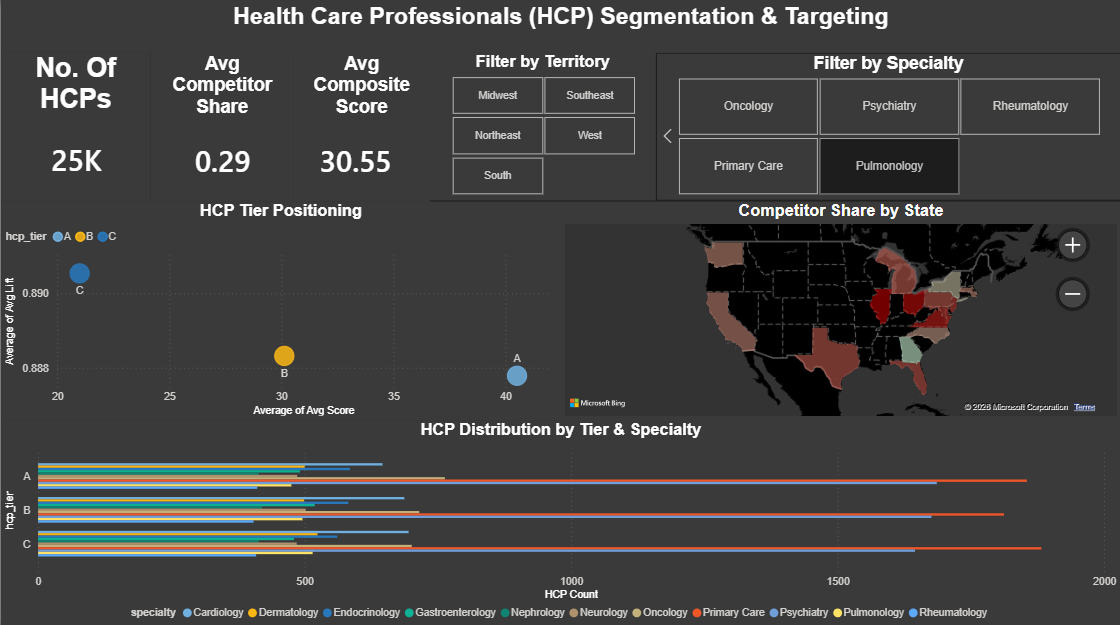
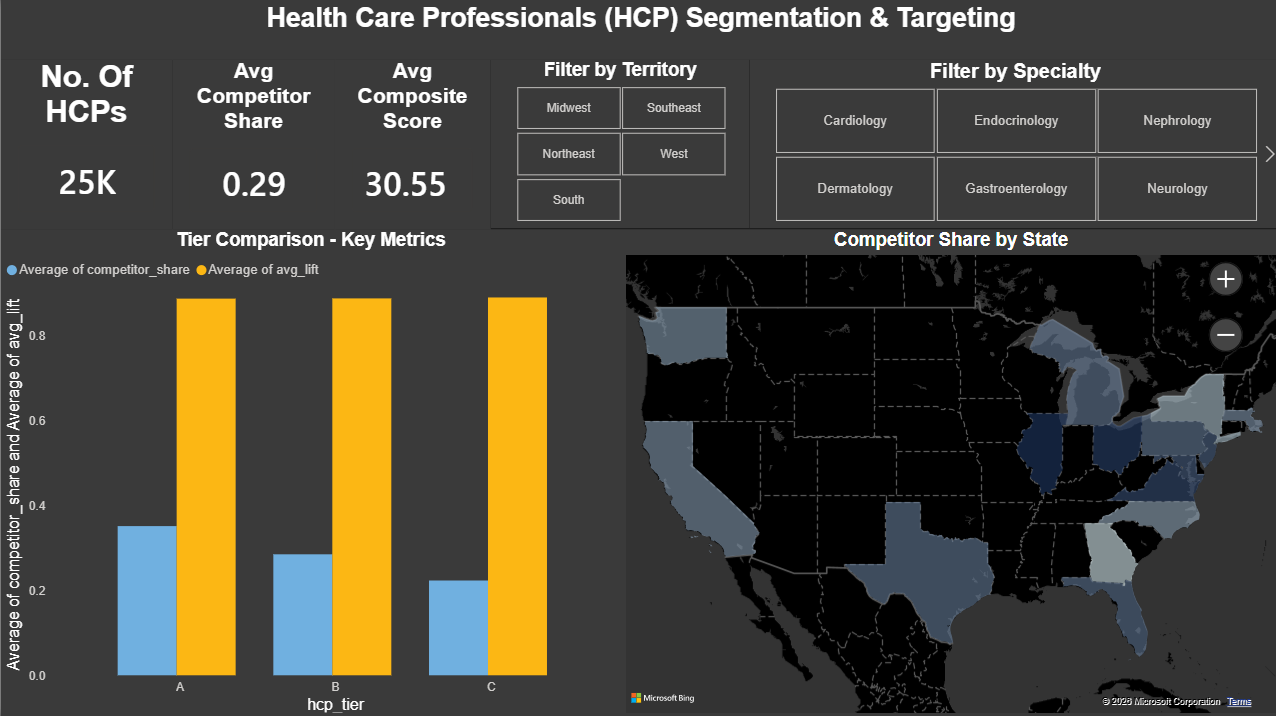
Project

diff --git a/README.md b/README.md
@@ -19,18 +19,18 @@ A pharmaceutical company runs a multi-channel marketing campaign targeting ~25,0
 
 | Layer | Technology |
 |---|---|
-| Data Enrichment | Python (Pandas, NumPy) |
+| Data Pipeline | Python (Pandas, NumPy) |
 | Database | MySQL 8.0 |
 | Analytics | SQL (CTEs, Window Functions, Aggregations) |
-| Visualisation | Power BI Desktop |
+| Visualisation | Power BI Desktop + DAX |
 | Version Control | Git / GitHub |
 
 ---
 
 ## Dataset
 
-**Source:** Synthetic HCP Omnichannel Marketing Dataset (Kaggle - danielmeiser)  
-**Size:** 150,000 rows × 42 columns  
+**Source:** Synthetic HCP Omnichannel Marketing Dataset (Kaggle - danielmeiser)
+**Size:** 150,000 rows × 42 columns
 **Structure:** Panel data - one row per HCP per week (24,935 unique doctors × 26 weeks)
 
 **Key column groups:**
@@ -54,10 +54,10 @@ Pharma-Commercial-Analytics/
 │   ├── 02_Rep_Performance.png
 │   └── 03_Marketing_Mix_And_Territory_ROI.png
 │
-├── 01_create_table.sql          # MySQL table schema
-├── 02_create_views.sql          # 5 analytical SQL views
-├── addSQL.py                    # Loads CSV into MySQL
-├── Pharma_Commercial_Analytics.pbix   # Power BI dashboard file
+├── 01_create_table.sql               # MySQL table schema
+├── 02_create_views.sql               # 5 analytical SQL views
+├── addSQL.py                         # Loads CSV into MySQL
+├── Pharma_Commercial_Analytics.pbix  # Power BI dashboard file
 └── README.md
 ```
 
@@ -65,98 +65,105 @@ Pharma-Commercial-Analytics/
 
 ## SQL Analytical Views
 
-Five views built on top of `hcp_marketing` table:
+Five views built on top of the `hcp_marketing` table:
 
 ### 1. `vw_hcp_tiering` - HCP Segmentation
 Tiers all 24,935 doctors into A/B/C using a composite score:
 
 ```
 Composite Score = (baseline_rx_monthly × 0.3)
-                + (rep_access_score × 100 × 0.3)
-                + (competitor_share × 100 × 0.2)
-                + (panel_size × 0.01 × 0.2)
+                + (rep_access_score   × 100 × 0.3)
+                + (competitor_share   × 100 × 0.2)
+                + (panel_size         × 0.01 × 0.2)
 ```
 
 Uses `NTILE(3)` window function to split into equal thirds. Tier A = highest composite score = highest priority target.
 
 ### 2. `vw_quota_attainment` - Rep Performance
-Computes `AVG(rx_lift_weekly) / AVG(weekly_quota_rx_lift) × 100` per rep per territory. Labels reps as On Track (≥100%), At Risk (80–99%), or Underperforming (<80%) using `CASE WHEN`.
+Computes `AVG(rx_lift_weekly) / AVG(weekly_quota_rx_lift) × 100` per rep per territory. Labels reps as **On Track** (≥100%), **At Risk** (80–99%), or **Underperforming** (<80%) using `CASE WHEN`.
 
 ### 3. `vw_channel_roi` - Marketing Mix ROI
-Computes `SUM(rx_lift_weekly) / SUM(cost_X)` for each of 6 marketing channels. Key finding: email generates 6.0 Rx lift per dollar vs 0.013 for rep visits — a 460x efficiency gap.
+Computes `SUM(rx_lift_weekly) / SUM(cost_X)` for each of 6 marketing channels.
+Key finding: email generates **6.0 Rx lift per dollar** vs **0.013 for rep visits** - a 460× efficiency gap.
 
 ### 4. `vw_priority_call_list` - Next Week Call Targets
-Filters the latest week's data for HCPs meeting all four criteria:
-- `rep_access_score > 0.6` (accessible)
-- `call_recency_days > 30` (not recently visited)
-- `response_flag = 1` (historically responded)
-- `competitor_share > 0.5` (competitor-dominated, high opportunity)
+Filters the latest week's snapshot for HCPs meeting all four criteria:
+- `rep_access_score > 0.6` - accessible
+- `call_recency_days > 30` - not recently visited
+- `response_flag = 1` - historically responded
+- `competitor_share > 0.5` - competitor-dominated, high opportunity
 
 ### 5. `vw_territory_ranking` - Territory Performance
-Ranks all 5 territories by total Rx lift generated using `RANK()` window function. Southeast ranks #1 with 36,111 total lift units.
+Ranks all 5 territories by total Rx lift generated using the `RANK()` window function. Southeast ranks #1 with 36,111 total lift units.
 
 ---
 
 ## Power BI Dashboard
 
 ### Page 1 - HCP Segmentation & Targeting
-- **Scatter plot** - 3 tier bubbles (A/B/C) by average composite score vs average Rx lift
-- **Filled map** - competitor share by US state (green → red gradient)
-- **Bar chart** - HCP count by tier and specialty
-- **KPI cards** - Total HCPs, Avg Competitor Share, Avg Composite Score
-- **Slicers** - Filter by territory and specialty
 
 ![Page 1](Dashboard_Screenshots/01_HCP_Segmentation.png)
 
+- **Clustered bar chart** - competitor share and avg Rx lift by HCP tier (A/B/C), showing Tier A carries the highest competitor penetration - the primary targeting rationale
+- **Filled map** - average competitor share by US state using a blue gradient; darker = stronger competitor presence = higher market opportunity
+- **KPI cards** - Total HCPs (25K), Avg Competitor Share (0.29), Avg Composite Score (30.55)
+- **Slicers** - Filter by territory and specialty; cross-filter all visuals simultaneously
+
+---
+
 ### Page 2 - Representatives' Performance & Call Planning
-- **Quota attainment table** - all 23 rep-territory rows with conditional formatting
-- **Priority call list table** - 23 high-opportunity HCPs with competitor share heat map
-- **Bar chart** - quota status (On Track / At Risk / Underperforming) by territory
-- **KPI cards** - Avg Attainment %, Reps On Track, Reps Underperforming
 
 ![Page 2](Dashboard_Screenshots/02_Rep_Performance.png)
 
+- **Column chart** - quota attainment % per rep, colour-coded green/amber/red (On Track / At Risk / Underperforming); all 19 reps visible in one view
+- **Priority call list table** - 23 high-opportunity HCPs filtered from latest week, with competitor share heat map (amber -> red) highlighting most urgent targets
+- **100% stacked bar** - proportion of reps by quota status across all 5 territories; West is the strongest, South and Southeast have highest Underperforming share
+- **KPI cards** - Avg Quota Attainment % (100.04), Reps On Track (8), Reps Underperforming (4)
+- **Slicer** - Filter by territory; cross-filters all visuals on the page
+
+---
+
 ### Page 3 - Marketing Mix & Territory ROI
-- **Bar chart** - channel ROI ranking (Email far outperforms all other channels)
-- **Territory ranking table** - ranked 1-5 with green/red conditional formatting
-- **Line chart** - weekly Rx lift trend by territory over 26 weeks
-- **KPI cards** - Best Channel ROI, Worst Channel ROI, Top Performing Territory
 
 ![Page 3](Dashboard_Screenshots/03_Marketing_Mix_And_Territory_ROI.png)
+
+- **Horizontal bar chart** - channel ROI ranking across 6 channels; Email (6.00 lift/$) far outperforms Rep Visit (0.01 lift/$) - a 460× gap
+- **Territory ranking table** - all 5 territories ranked 1-5 by total Rx lift with colour-coded rank numbers (green = top, red = bottom)
+- **Line chart** - weekly Rx lift trend per territory over 26 weeks; interactive territory slicer highlights selected territory while others fade
+- **KPI cards** - Best Channel ROI (6.00), Worst Channel ROI (0.01), Top Performing Territory (Southeast)
+- **Slicer** - Filter by territory; filters line chart while leaving ranking table unaffected
 
 ---
 
 ## Key Insights
 
-- **Email marketing generates 460x better ROI than rep visits** on a cost-per-lift basis ($0.17 vs $77 per Rx lift unit), though rep visits serve a strategic relationship-building function not captured in short-term lift metrics
-- **Southeast is the top-performing territory** with 36,111 total Rx lift units, while West ranks last at 17,682
+- **Email generates 460× better ROI than rep visits** on a cost-per-lift basis ($0.17 vs $77 per Rx lift unit) - though rep visits serve a relationship-building function not captured in short-term lift metrics alone
+- **Southeast is the top-performing territory** with 36,111 total Rx lift units; West ranks last at 17,682
 - **4 of 19 reps are Underperforming** (below 80% quota attainment), concentrated in the Northeast and Southeast territories
 - **Midwest/Ohio area shows highest competitor penetration** on the geographic map - the strongest opportunity for market share recovery
-- **HCP composite score and actual Rx lift are weakly correlated** (r ≈ 0.01), indicating that targeting strategy based on access and panel size alone is insufficient - channel mix plays a significant role in driving lift
+- **Tier A doctors carry higher competitor share** (0.33 avg) than Tier C (0.23 avg), confirming that the targeting model correctly prioritises competitor-dominated HCPs - not just high prescribers
 
 ---
 
 ## How to Run
 
-
 **1. Load into MySQL:**
 ```bash
-pip install sqlalchemy pymysql
+pip install sqlalchemy pymysql pandas
 python addSQL.py
 ```
 
 **2. Create analytical views:**
 ```sql
--- Run in MySQL CLI or Workbench
 source 01_create_table.sql
 source 02_create_views.sql
 ```
 
 **3. Open dashboard:**
-Open `Pharma_Commercial_Analytics.pbix` in Power BI Desktop. Update the MySQL connection to `127.0.0.1:3306` with your credentials.
+Open `Pharma_Commercial_Analytics.pbix` in Power BI Desktop. Update the MySQL connection to `127.0.0.1:3306` with your credentials under Transform Data → Data Source Settings.
 
 ---
 
 ## Skills Demonstrated
 
-`MySQL` · `SQL Window Functions` · `CTEs` · `Python (Pandas)` · `Power BI` · `DAX` · `Data Modeling` · `Pharma Commercial Analytics` · `Sales Force Effectiveness`
+`MySQL` · `SQL Window Functions (NTILE, RANK)` · `CTEs` · `Python (Pandas, NumPy)` · `Power BI` · `DAX Measures` · `Data Modelling` · `Pharma Commercial Analytics` · `Sales Force Effectiveness (SFE)` · `HCP Targeting`
